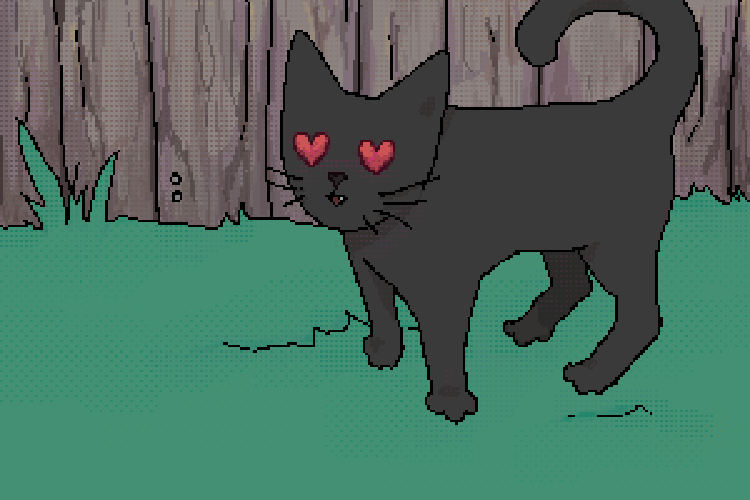
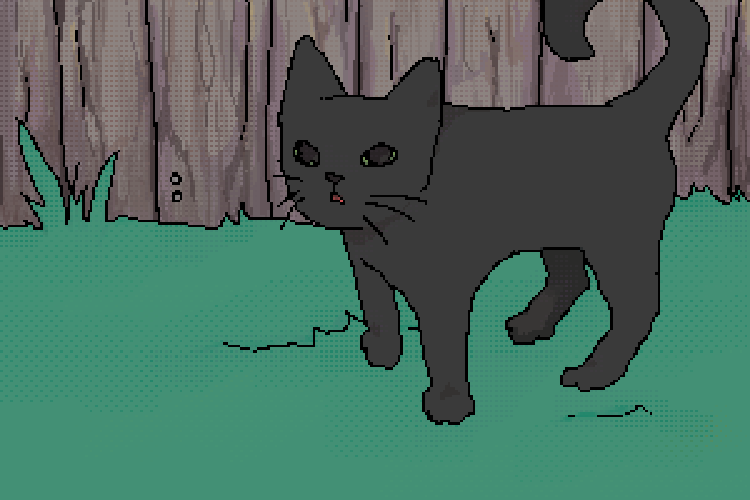
finish endings

diff --git a/src/scenes/boss_fight.py b/src/scenes/boss_fight.py
@@ -1,43 +1,131 @@
 import pygame
 import os
+import time
 
 class BossFight:
     def __init__(self, game):
         self.game = game
         self.screen = game.screen
         self.name = None
+        self.state = 'intro'  # intro, love1, love2, love3, win_black, win, lose_black, lose, done
+        self.timer = 0
+        self.last_advance = pygame.time.get_ticks()
+        self.ending_type = self.get_ending_type()
+        self.images = {
+            'intro': self.load_and_scale_image('ending.PNG'),
+            'love1': self.load_and_scale_image('love_ending_1.PNG'),
+            'love2': self.load_and_scale_image('love_ending_2.PNG'),
+            'love3': self.load_and_scale_image('love_ending_3.PNG'),
+            'win': self.load_and_scale_image('win_ending.PNG'),
+            'lose': self.load_and_scale_image('lose_ending.PNG'),
+        }
+        self.texts = {
+            'intro': 'The boss cat approaches! Prepare for the final confrontation...',
+            'love1': 'The cat notices your bow...',
+            'love2': '',
+            'love3': '',
+            'win': 'You have defeated the boss cat! Congratulations!',
+            'lose': 'You were defeated by the boss cat...'
+        }
+        self.black_surface = pygame.Surface(self.screen.get_size())
+        self.black_surface.fill((0, 0, 0))
+        self.black_surface.set_alpha(255)
+        self.advance_ready = True
 
-        self.ending = self.get_ending()
-        original_image = pygame.image.load(f"../assets/media/endings/{self.ending}.png").convert()
-        self.image = pygame.transform.scale(original_image, self.screen.get_size())
+    def load_and_scale_image(self, filename):
+        path = os.path.join('..', 'assets', 'media', 'endings', filename)
+        img = pygame.image.load(path).convert()
+        return pygame.transform.scale(img, self.screen.get_size())
 
-    def get_ending(self):
-        inventory_names = [item.name for item in self.game.inventory]
+    def get_ending_type(self):
         if any(item.name == "Bow" for item in self.game.inventory):
-            # Secret love ending
-            self.update_sprite_with_bow()
-            return "love_ending_3"
+            return 'love'
         elif self.game.stats["Health"] >= 2 or self.game.stats["Damage"] >= 3:
-            return "win_ending"
+            return 'win'
         else:
-            return "lose_ending"
-
-    def update_sprite_with_bow(self):
-        self.name = self.game.cat.name
-        if self.name in ["Asja", "Tofu", "Tommy", "Kira", "Jimmy"]:
-            bow_path = f"../assets/media/sprites/{self.name}_bow.png"
-            if os.path.exists(bow_path):
-                self.game.cat.image = pygame.image.load(bow_path).convert_alpha()
+            return 'lose'
 
     def handle_event(self, event):
-        if event.type == pygame.KEYDOWN and event.key == pygame.K_RETURN:
-            self.game.quit_game()  # or restart
+        if event.type == pygame.MOUSEBUTTONDOWN or (event.type == pygame.KEYDOWN and event.key == pygame.K_RETURN):
+            self.advance_sequence()
+
+    def advance_sequence(self):
+        now = pygame.time.get_ticks()
+#
+        if self.state == 'intro':
+            if self.ending_type == 'love':
+                self.state = 'love1'
+            elif self.ending_type == 'win':
+                self.state = 'win_black'
+                self.last_advance = now
+            else:
+                self.state = 'lose_black'
+                self.last_advance = now
+        elif self.state == 'love1':
+            self.state = 'love2'
+        elif self.state == 'love2':
+            self.state = 'love3'
+        elif self.state == 'love3':
+            self.state = 'done'
+        elif self.state == 'win_black':
+            self.state = 'win'
+        elif self.state == 'win':
+            self.state = 'done'
+        elif self.state == 'lose_black':
+            self.state = 'lose'
+        elif self.state == 'lose':
+            self.state = 'done'
 
     def update(self):
-        pass
+        # For black screen delay
+        now = pygame.time.get_ticks()
+        if self.state in ['win_black', 'lose_black']:
+            if now - self.last_advance > 1000:
+                if self.state == 'win_black':
+                    self.state = 'win'
+                else:
+                    self.state = 'lose'
 
     def draw_inventory(self):
-        pass #this is not supposed to show anything, but without there is an error
+        pass
+
+    def draw_text_box(self, text):
+        # Text Box
+        width = self.screen.get_width()
+        height = 100
+        y = self.screen.get_height() - height
+        s = pygame.Surface((width, height), pygame.SRCALPHA)
+        s.fill((0, 0, 0, 180))
+        self.screen.blit(s, (0, y))
+        pygame.draw.rect(self.screen, (255, 255, 255), (0, y, width, height), 3)
+        if text:
+            font = pygame.font.SysFont(None, 32)
+            rendered = font.render(text, True, (255, 255, 255))
+            text_rect = rendered.get_rect(center=(width // 2, y + height // 2))
+            self.screen.blit(rendered, text_rect)
 
     def draw(self):
-        self.screen.blit(self.image, (0, 0))
+        # Draw the current step
+        if self.state == 'intro':
+            self.screen.blit(self.images['intro'], (0, 0))
+            self.draw_text_box(self.texts['intro'])
+        elif self.state == 'love1':
+            self.screen.blit(self.images['love1'], (0, 0))
+            self.draw_text_box(self.texts['love1'])
+        elif self.state == 'love2':
+            self.screen.blit(self.images['love2'], (0, 0))
+        elif self.state == 'love3':
+            self.screen.blit(self.images['love3'], (0, 0))
+        elif self.state == 'win_black':
+            self.screen.blit(self.black_surface, (0, 0))
+        elif self.state == 'win':
+            self.screen.blit(self.images['win'], (0, 0))
+            self.draw_text_box(self.texts['win'])
+        elif self.state == 'lose_black':
+            self.screen.blit(self.black_surface, (0, 0))
+        elif self.state == 'lose':
+            self.screen.blit(self.images['lose'], (0, 0))
+            self.draw_text_box(self.texts['lose'])
+        elif self.state == 'done':
+            # End the game or return to menu
+            self.game.quit_game()

diff --git a/src/game.py b/src/game.py
@@ -7,8 +7,7 @@ from ui.menu import MainMenu
 from objects.player import Cat, WHITE
 from scenes.character_select import CharacterSelect  # Importing CharacterSelect
 import os
-from scenes.boss_fight import BossFight
-
+import sys
 
 class Game:
     def __init__(self, screen):
@@ -46,10 +45,6 @@ class Game:
             raise FileNotFoundError(f"Font not found at: {font_path}")
         self.button_font = pygame.font.Font(font_path, 11)
 
-        # Navigation buttons
-        self.left_button = pygame.Rect(10, self.screen.get_height() - 40, 100, 30)
-        self.right_button = pygame.Rect(self.screen.get_width() - 170, self.screen.get_height() - 40, 100, 30)
-
         # Room connections
         self.item_states = {}  # Dictionary to track item states across scenes
         self.room_exits = {
@@ -71,6 +66,10 @@ class Game:
         self.current_scene = LivingRoom(self)
         self.current_room = "living_room"
         self.state = "playing"
+
+    def quit_game(self):
+        pygame.quit()
+        sys.exit()
 
     def change_scene(self, scene_name, entry_side):
         # Position cat based on entry side

diff --git a/src/objects/item.py b/src/objects/item.py
@@ -10,8 +10,9 @@ ASSETS_DIR = os.path.normpath(os.path.join(BASE_DIR, '..', '..', 'assets'))
 INVENTORY_MAX = 4
 IMAGE_SCALE = 1
 WHITE = (255, 255, 255)
-INVENTORY_COLOR = (155, 103, 60)
-INVENTORY_BORDER_COLOR = (245,222,179)
+DARK_GREY = (45, 45, 45)
+INVENTORY_COLOR = (DARK_GREY)
+INVENTORY_BORDER_COLOR = (WHITE)
 INVENTORY_POSITION = 100
 ITEM_SPACING = 80
 
